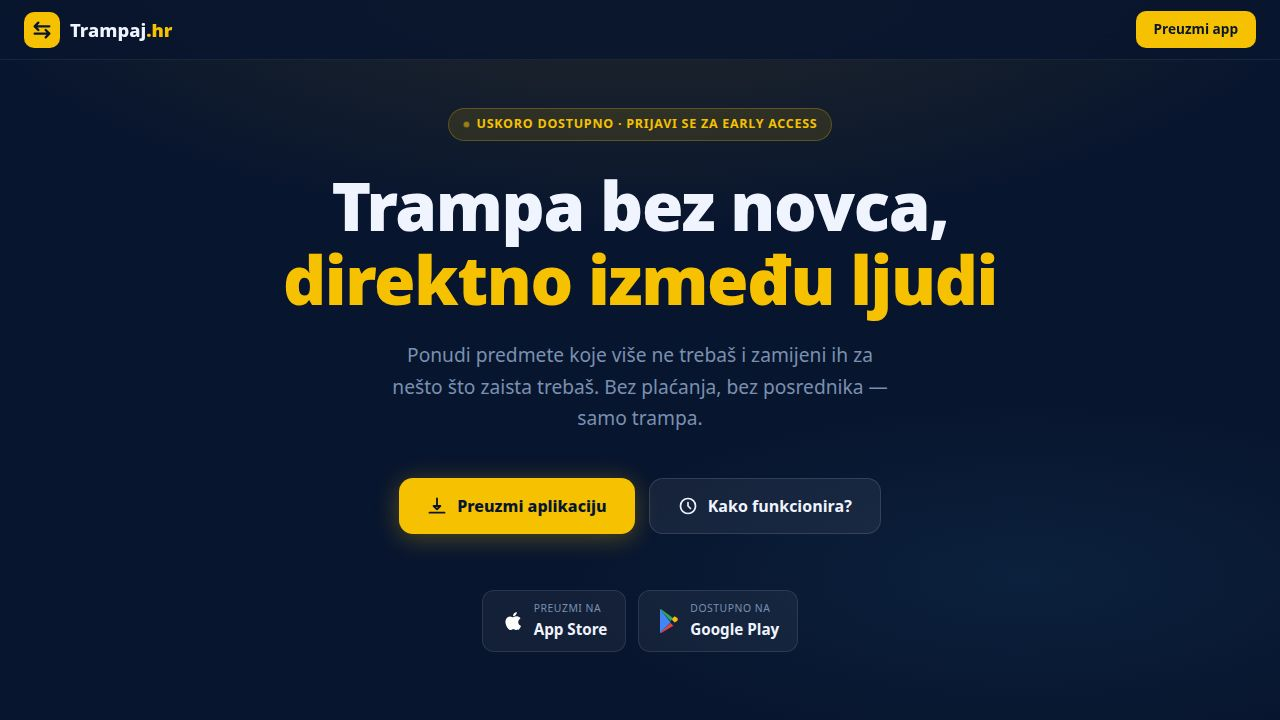
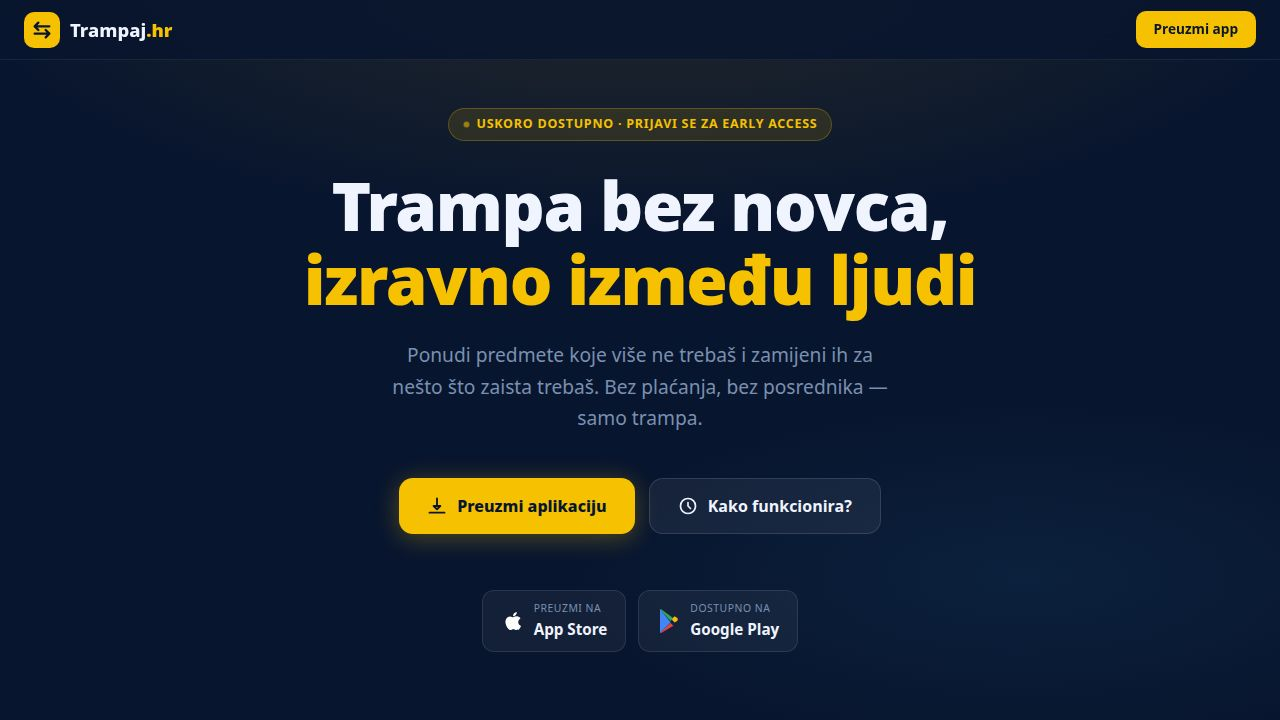
Improve language consistency and correct errors across the application
Update various text elements throughout the mobile and web applications to use correct Croatian phrasing and fix error messages.

Replit-Commit-Author: Agent
Replit-Commit-Session-Id: 77aa64ae-43a9-44ef-bcfc-5a6e57ce5d7a
Replit-Commit-Checkpoint-Type: full_checkpoint
Replit-Commit-Event-Id: 529c4c6e-ff8f-4122-861b-dcb63acb4c01
Replit-Commit-Screenshot-Url: https://storage.googleapis.com/screenshot-production-us-central1/88ef2a6c-7a33-487b-979b-872bea2e7663/77aa64ae-43a9-44ef-bcfc-5a6e57ce5d7a/D52Cpzc
Replit-Helium-Checkpoint-Created: true

Changed region(s): [[0.2188, 0.3361, 0.7812, 0.4583]]

diff --git a/artifacts/mobile/app/chat/[listingId].tsx b/artifacts/mobile/app/chat/[listingId].tsx
@@ -260,7 +260,7 @@ function DeliveryModal({
           <Text style={styles.modalLabel}>DOSTAVA</Text>
           <Text style={styles.modalTitle}>Osobno preuzimanje</Text>
           <Text style={[styles.disclaimerBody, { marginTop: 10 }]}>
-            {"Predmet je velik pa se dogovarate direktno o terminu i načinu preuzimanja.\n\nDogovorite se u chatu gdje i kada."}
+            {"Predmet je velik pa se dogovarate izravno o terminu i načinu preuzimanja.\n\nDogovorite se u chatu gdje i kada."}
           </Text>
           <Pressable
             onPress={() => onDone({ method: "personal", escrowActive: false })}
@@ -423,7 +423,7 @@ function EscrowModal({
         if (data.code === "stripe_not_connected") {
           setErrMsg("Plaćanje karticom uskoro dostupno! Platforma je u fazi testiranja.");
         } else {
-          setErrMsg(data.error ?? "Greška pri otvaranju plaćanja.");
+          setErrMsg(data.error ?? "Pogreška pri otvaranju plaćanja.");
         }
         return;
       }
@@ -437,7 +437,7 @@ function EscrowModal({
         setErrMsg("Plaćanje otkazano.");
       }
     } catch {
-      setErrMsg("Greška. Pokušaj ponovo ili kontaktiraj podršku.");
+      setErrMsg("Pogreška. Pokušaj ponovo ili kontaktiraj podršku.");
     } finally {
       setLoading(false);
     }
@@ -451,9 +451,9 @@ function EscrowModal({
           <Text style={styles.modalLabel}>PLAĆANJE USPJEŠNO</Text>
           <Text style={styles.modalTitle}>Dostava plaćena!</Text>
           <Text style={[styles.disclaimerBody, { marginTop: 10 }]}>
-            {"Nalepnica za dostavu putem "}
+            {"Naljepnica za dostavu putem "}
             <Text style={styles.disclaimerBold}>{paidMethodName}</Text>
-            {" bit će poslana na tvoj e-mail.\n\nUpakuj predmet i predaj ga kuriru ili odnesi na paketomat."}
+            {" bit će poslana na tvoj e-mail.\n\nZapakiraj predmet i predaj ga kuriru ili odnesi na paketomat."}
           </Text>
           <Pressable
             onPress={onDone}
@@ -475,7 +475,7 @@ function EscrowModal({
         <View style={[styles.dealCard, { padding: 28, gap: 0, maxWidth: SW - 40 }]}>
           <Text style={{ fontSize: 36, marginBottom: 8 }}>🤝</Text>
           <Text style={styles.modalLabel}>OSOBNO PREUZIMANJE</Text>
-          <Text style={styles.modalTitle}>Dogovorite se direktno</Text>
+          <Text style={styles.modalTitle}>Dogovorite se izravno</Text>
           <Text style={[styles.disclaimerBody, { marginTop: 12 }]}>
             {"Dogovorite se u chatu o terminu i mjestu preuzimanja.\n\nZa sigurniju trampu možete koristiti opciju sigurnosnog depozita."}
           </Text>
@@ -562,7 +562,7 @@ function EscrowModal({
         )}
 
         <Text style={[styles.disclaimerBody, { marginTop: 10, fontSize: 11 }]}>
-          {"Plaćanje je sigurno putem Stripe platforme. Nalepnica za dostavu stiže na tvoj e-mail. 🔒"}
+          {"Plaćanje je sigurno putem Stripe platforme. Naljepnica za dostavu stiže na tvoj e-mail. 🔒"}
         </Text>
 
         {errMsg && (
@@ -661,7 +661,7 @@ function DepositModal({
         if (data.code === "stripe_not_connected") {
           setErrMsg("Sigurnosni depozit uskoro dostupan! Platforma je u fazi testiranja.");
         } else {
-          setErrMsg(data.error ?? "Greška pri otvaranju plaćanja.");
+          setErrMsg(data.error ?? "Pogreška pri otvaranju plaćanja.");
         }
         return;
       }
@@ -687,7 +687,7 @@ function DepositModal({
         setErrMsg("Plaćanje otkazano.");
       }
     } catch {
-      setErrMsg("Greška. Pokušaj ponovo.");
+      setErrMsg("Pogreška. Pokušaj ponovo.");
     } finally {
       setLoading(false);
     }

diff --git a/artifacts/mobile/app/(tabs)/profile.tsx b/artifacts/mobile/app/(tabs)/profile.tsx
@@ -395,7 +395,7 @@ export default function ProfileScreen() {
       setShowBioPasswordModal(false);
       Haptics.notificationAsync(Haptics.NotificationFeedbackType.Success);
     } catch {
-      Alert.alert("Greška", "Provjeri vezu i pokušaj ponovo.");
+      Alert.alert("Pogreška", "Provjeri vezu i pokušaj ponovo.");
     } finally {
       setBioActivating(false);
     }
@@ -432,7 +432,7 @@ export default function ProfileScreen() {
               Haptics.notificationAsync(Haptics.NotificationFeedbackType.Success);
               router.replace("/(tabs)");
             } catch {
-              Alert.alert("Greška", "Nije uspjelo brisanje. Pokušaj ponovo.");
+              Alert.alert("Pogreška", "Nije uspjelo brisanje. Pokušaj ponovo.");
             }
           },
         },
@@ -546,7 +546,7 @@ export default function ProfileScreen() {
         Alert.alert("Aplikacija je aktualna", "Koristiš najnoviju verziju.");
       }
     } catch {
-      Alert.alert("Greška", "Provjera ažuriranja nije uspjela. Provjeri vezu.");
+      Alert.alert("Pogreška", "Provjera ažuriranja nije uspjela. Provjeri vezu.");
     } finally {
       setUpdating(false);
     }
@@ -707,7 +707,7 @@ export default function ProfileScreen() {
 
   async function handleSaveProfile() {
     if (!user) return;
-    if (!profileForm.username.trim()) { setProfileError("Korisničko ime je obavezno"); return; }
+    if (!profileForm.username.trim()) { setProfileError("Korisničko ime je obvezno"); return; }
     setProfileSaving(true);
     setProfileError("");
     const data: Parameters<typeof updateProfile>[0] = {
@@ -729,7 +729,7 @@ export default function ProfileScreen() {
       Haptics.notificationAsync(Haptics.NotificationFeedbackType.Success);
       setEditingProfile(false);
     } else {
-      setProfileError(result.error ?? "Greška pri snimanju");
+      setProfileError(result.error ?? "Pogreška pri snimanju");
     }
   }
 

diff --git a/artifacts/web/src/App.tsx b/artifacts/web/src/App.tsx
@@ -49,9 +49,9 @@ function TermsPage() {
           ["1. Operator i opis usluge", "Operator platforme:\nDiplomat d.o.o., Dr. F. Tuđmana 10, 34000 Požega | OIB: 77718954672\n\nTrampaj.hr je platforma koja omogućuje razmjenu (trampu) predmeta između fizičkih osoba. Platforma isključivo posreduje u spajanju korisnika — ne sudjeluje u transakcijama, ne preuzima odgovornost za predmete niti jamči uspješnu zamjenu.\n\nKorištenjem platforme potvrđujete da ste punoljetna osoba (18+) s pravnom sposobnošću za sklapanje ugovora."],
           ["2. Registracija i korisnički račun", "• Registracija je besplatna i dobrovoljna\n• Korisnik je odgovoran za točnost unesenih podataka\n• Zabranjeno je kreirati lažne profile ili se predstavljati tuđim identitetom\n• Jedan korisnik smije imati samo jedan aktivan račun\n• Korisnik je dužan čuvati povjerljivost lozinke i odmah prijaviti svaki neovlašteni pristup\n• Platforma zadržava pravo suspendiranja ili brisanja računa koji krši ove Uvjete"],
           ["3. Pravila oglašavanja", "Oglasi moraju biti točni, potpuni i u skladu s ovim pravilima. Zabranjeno je objavljivati:\n\n• Lažne ili obmanjujuće oglase\n• Predmete koji su predmet krađe, falsifikati ili ilegalna roba\n• Oružje, eksplozivi, droge i kontrolirane supstancije\n• Živežne namirnice i lijekovi koji zahtijevaju posebne uvjete pohrane\n• Sadržaj koji vrijeđa dostojanstvo osoba ili potiče mržnju\n• Predmete koji su zakonom zabranjeni za promet\n• Živa bića (životinje)\n\nKorisnik je osobno odgovoran za točnost i zakonitost objavljenih oglasa."],
-          ["4. Zabranjena ponašanja", "Zabranjeno je:\n\n• Kontaktirati korisnike s ciljem prijevare ili izvlačenja novca\n• Manipulirati ocjenama (lažne recenzije, samooklenjivanje)\n• Koristiti automatizirane alate za masovno objavljivanje oglasa (spam)\n• Prikupljati osobne podatke ostalih korisnika bez njihovog pristanka\n• Koristiti platformu za oglašavanje komercijalnih usluga ili reklama\n• Zaobilaziti mjere sigurnosti platforme"],
-          ["5. Zamjena predmeta i odgovornost", "Trampaj.hr posreduje u spajanju korisnika, ali:\n\n• NE garantira kvalitetu, stanje ili autentičnost predmeta\n• NE sudjeluje u fizičkoj razmjeni predmeta\n• NIJE odgovorna za štete nastale uslijed zamjene\n• NE pruža usluge prijevoza niti jamči dostavu\n\nKorisnici su sami odgovorni za dogovaranje uvjeta zamjene, provjeru predmeta i odabir sigurnog načina razmjene."],
-          ["6. Dostava i plaćanje dostave", "Platforma ne naplaćuje proviziju niti posreduje u financijskim transakcijama.\n\nUkoliko korisnici dogovore kurirsku dostavu:\n• Svaki korisnik plaća dostavu paketa koji prima\n• Trošak i organizacija dostave isključivo su dogovor između korisnika\n• Platforma ne snosi odgovornost za izgubljene, oštećene ili zakasnjele pošiljke"],
+          ["4. Zabranjena ponašanja", "Zabranjeno je:\n\n• Kontaktirati korisnike s ciljem prijevare ili izvlačenja novca\n• Manipulirati ocjenama (lažne recenzije, samoocjenjivanje)\n• Koristiti automatizirane alate za masovno objavljivanje oglasa (spam)\n• Prikupljati osobne podatke ostalih korisnika bez njihovog pristanka\n• Koristiti platformu za oglašavanje komercijalnih usluga ili reklama\n• Zaobilaziti mjere sigurnosti platforme"],
+          ["5. Zamjena predmeta i odgovornost", "Trampaj.hr posreduje u spajanju korisnika, ali:\n\n• NE jamči kvalitetu, stanje ili autentičnost predmeta\n• NE sudjeluje u fizičkoj razmjeni predmeta\n• NIJE odgovorna za štete nastale uslijed zamjene\n• NE pruža usluge prijevoza niti jamči dostavu\n\nKorisnici su sami odgovorni za dogovaranje uvjeta zamjene, provjeru predmeta i odabir sigurnog načina razmjene."],
+          ["6. Dostava i plaćanje dostave", "Platforma ne naplaćuje proviziju niti posreduje u financijskim transakcijama.\n\nAko korisnici dogovore kurirsku dostavu:\n• Svaki korisnik plaća dostavu paketa koji prima\n• Trošak i organizacija dostave isključivo su dogovor između korisnika\n• Platforma ne snosi odgovornost za izgubljene, oštećene ili zakasnjele pošiljke"],
           ["7. DSA — Digitalni tržišni akti (Uredba EU 2022/2065)", "Trampaj.hr posluje sukladno Zakonu o provedbi Uredbe EU o digitalnim uslugama (NN, 28.3.2025.):\n\n• Korisnici mogu prijaviti ilegalne ili sumnjive oglase putem gumba \"Prijavi oglas\"\n• Prijave se obrađuju unutar 72 sata\n• Platforma poduzima mjere uklanjanja nezakonitog sadržaja\n• Kontakt za tijela javne vlasti: [email redacted]"],
           ["8. Status korisnika — privatne osobe", "Sukladno čl. 68. Zakona o zaštiti potrošača (NN 19/22, 59/23), Trampaj.hr je internetsko tržište koje isključivo spaja privatne osobe.\n\nSvi korisnici platforme su privatne osobe — nisu trgovci u smislu potrošačkog zakonodavstva EU-a. Stoga:\n\n• Zakonska jamstva i prava potrošača propisana EU direktivama ne primjenjuju se na zamjene ostvarene putem ove platforme\n• Svaki oglas na platformi automatski je označen kao ponuda privatne osobe\n\nAko korisnik u stvarnosti posluje kao trgovac, dužan je to naznačiti i preuzima punu zakonsku odgovornost prema potrošačima."],
           ["9. Intelektualno vlasništvo", "Korisnik zadržava autorska prava na fotografije i opise koje objavljuje. Objavljivanjem sadržaja dajete Trampaj.hr neekskluzivnu, besplatnu licencu za prikaz tog sadržaja unutar platforme.\n\nLogo, dizajn i naziv \"Trampaj.hr\" vlasništvo su operatora platforme i ne smiju se koristiti bez pismenog odobrenja."],
@@ -291,7 +291,7 @@ function LandingPage() {
           <span className="badge-dot"></span>
           Uskoro dostupno · Prijavi se za early access
         </div>
-        <h1>Trampa bez novca,<br/><em>direktno između ljudi</em></h1>
+        <h1>Trampa bez novca,<br/><em>izravno između ljudi</em></h1>
         <p className="subtitle">
           Ponudi predmete koje više ne trebaš i zamijeni ih za nešto što zaista trebaš.
           Bez plaćanja, bez posrednika — samo trampa.
@@ -360,7 +360,7 @@ function LandingPage() {
           <div className="features-grid">
             {[
               {icon:"🔒", title:"Sigurna trampa", desc:"Sustav drži predmete u sigurnoj ruci dok obje strane ne potvrde razmjenu."},
-              {icon:"📦", title:"Dostava na klik", desc:"Plati kurirsku dostavu direktno u appu. Nalepnica stiže na mail."},
+              {icon:"📦", title:"Dostava na klik", desc:"Plati kurirsku dostavu izravno u appu. Naljepnica stiže na e-mail."},
               {icon:"⚡", title:"Instant chat", desc:"Razgovaraj, pregovaraj i dogovori trampu unutar aplikacije."},
               {icon:"🇭🇷", title:"Made in Croatia", desc:"Servis namijenjen hrvatskim korisnicima, s podrškom na hrvatskom jeziku."},
               {icon:"0 kn", title:"Besplatno", desc:"Objava oglasa i trampa su potpuno besplatni. Bez skrivenih naknada."},

diff --git a/artifacts/mobile/app/onboarding.tsx b/artifacts/mobile/app/onboarding.tsx
@@ -67,8 +67,8 @@ export default function OnboardingScreen() {
   function validateStep2(): boolean {
     const e: Record<string, string> = {};
     if (username.trim().length < 2) e.username = "Najmanje 2 znaka";
-    if (email.trim() && !/^[^\s@]+@[^\s@]+\.[^\s@]+$/.test(email.trim())) e.email = "Nevažeći email";
-    if (!email.trim()) e.email = "Email je obavezan";
+    if (email.trim() && !/^[^\s@]+@[^\s@]+\.[^\s@]+$/.test(email.trim())) e.email = "Nevažeća e-mail adresa";
+    if (!email.trim()) e.email = "E-mail je obvezan";
     if (password.length < 6) e.password = "Najmanje 6 znakova";
     else if (!/[A-Z]/.test(password)) e.password = "Mora sadržavati veliko slovo";
     else if (!/[0-9]/.test(password)) e.password = "Mora sadržavati broj";
@@ -107,7 +107,7 @@ export default function OnboardingScreen() {
         }
       }
     } catch {
-      Alert.alert("Greška", "Nije moguće dohvatiti lokaciju.");
+      Alert.alert("Pogreška", "Nije moguće dohvatiti lokaciju.");
     } finally {
       setGpsLoading(false);
     }
@@ -179,7 +179,7 @@ export default function OnboardingScreen() {
     setLoading(false);
 
     if (!result.ok) {
-      setErrors({ submit: result.error ?? "Greška pri registraciji" });
+      setErrors({ submit: result.error ?? "Pogreška pri registraciji" });
       return;
     }
 

diff --git a/artifacts/mobile/app/terms.tsx b/artifacts/mobile/app/terms.tsx
@@ -80,19 +80,19 @@ export default function TermsScreen() {
 
         <Section title="4. Zabranjena ponašanja" colors={colors}>
           <Body colors={colors}>
-            {"Zabranjeno je:\n\n• Kontaktirati korisnike s ciljem prijevare ili izvlačenja novca\n• Manipulirati ocjenama (lažne recenzije, samooklenjivanje)\n• Koristiti automatizirane alate za masovno objavljivanje oglasa (spam)\n• Prikupljati osobne podatke ostalih korisnika bez njihovog pristanka\n• Koristiti platformu za oglašavanje komercijalnih usluga ili reklama\n• Zaobilaziti mjere sigurnosti platforme"}
+            {"Zabranjeno je:\n\n• Kontaktirati korisnike s ciljem prijevare ili izvlačenja novca\n• Manipulirati ocjenama (lažne recenzije, samoocjenjivanje)\n• Koristiti automatizirane alate za masovno objavljivanje oglasa (spam)\n• Prikupljati osobne podatke ostalih korisnika bez njihovog pristanka\n• Koristiti platformu za oglašavanje komercijalnih usluga ili reklama\n• Zaobilaziti mjere sigurnosti platforme"}
           </Body>
         </Section>
 
         <Section title="5. Zamjena predmeta i odgovornost" colors={colors}>
           <Body colors={colors}>
-            {"Trampaj.hr posreduje u spajanju korisnika, ali:\n\n• NE garantira kvalitetu, stanje ili autentičnost predmeta\n• NE sudjeluje u fizičkoj razmjeni predmeta\n• NIJE odgovorna za štete nastale uslijed zamjene\n• NE pruža usluge prijevoza niti jamči dostavu\n\nKorisnici su sami odgovorni za dogovaranje uvjeta zamjene, provjeru predmeta i odabir sigurnog načina razmjene. Preporučujemo osobnu predaju ili korištenje provjerenih kurirskih službi."}
+            {"Trampaj.hr posreduje u spajanju korisnika, ali:\n\n• NE jamči kvalitetu, stanje ili autentičnost predmeta\n• NE sudjeluje u fizičkoj razmjeni predmeta\n• NIJE odgovorna za štete nastale uslijed zamjene\n• NE pruža usluge prijevoza niti jamči dostavu\n\nKorisnici su sami odgovorni za dogovaranje uvjeta zamjene, provjeru predmeta i odabir sigurnog načina razmjene. Preporučujemo osobnu predaju ili korištenje provjerenih kurirskih službi."}
           </Body>
         </Section>
 
         <Section title="6. Dostava i plaćanje dostave" colors={colors}>
           <Body colors={colors}>
-            {"Platforma ne naplaćuje proviziju niti posreduje u financijskim transakcijama.\n\nUkoliko korisnici dogovore kurirsku dostavu:\n• Svaki korisnik plaća dostavu paketa koji prima\n• Trošak i organizacija dostave isključivo su dogovor između korisnika\n• Platforma ne snosi odgovornost za izgubljene, oštećene ili zakasnjele pošiljke\n\nZa predmete koji se ne mogu poslati kurirskom službom, korisnici se sami dogovaraju o osobnom preuzimanju."}
+            {"Platforma ne naplaćuje proviziju niti posreduje u financijskim transakcijama.\n\nAko korisnici dogovore kurirsku dostavu:\n• Svaki korisnik plaća dostavu paketa koji prima\n• Trošak i organizacija dostave isključivo su dogovor između korisnika\n• Platforma ne snosi odgovornost za izgubljene, oštećene ili zakasnjele pošiljke\n\nZa predmete koji se ne mogu poslati kurirskom službom, korisnici se sami dogovaraju o osobnom preuzimanju."}
           </Body>
         </Section>
 

diff --git a/artifacts/mobile/app/verify-email.tsx b/artifacts/mobile/app/verify-email.tsx
@@ -100,7 +100,7 @@ export default function VerifyEmailScreen() {
           setTimeout(() => router.replace("/(tabs)"), 1400);
         } else {
           setStatus("error");
-          setMessage(result.error ?? "Greška pri prijavi.");
+          setMessage(result.error ?? "Pogreška pri prijavi.");
         }
       });
       return;
@@ -139,7 +139,7 @@ export default function VerifyEmailScreen() {
       })
       .catch(() => {
         setStatus("error");
-        setMessage("Greška pri verifikaciji. Pokušaj ponovo.");
+        setMessage("Pogreška pri verifikaciji. Pokušaj ponovo.");
       });
   }, [token, jwt]); // eslint-disable-line react-hooks/exhaustive-deps
 
@@ -189,7 +189,7 @@ export default function VerifyEmailScreen() {
             <View style={[styles.iconCircle, { backgroundColor: "#3A1A1A" }]}>
               <Feather name="x-circle" size={48} color="#F87171" />
             </View>
-            <Text style={[styles.title, { color: colors.foreground }]}>Greška</Text>
+            <Text style={[styles.title, { color: colors.foreground }]}>Pogreška</Text>
             <Text style={[styles.subtitle, { color: colors.mutedForeground }]}>{message}</Text>
             <Pressable
               onPress={() => router.replace("/login")}

diff --git a/artifacts/mobile/app/(tabs)/post.tsx b/artifacts/mobile/app/(tabs)/post.tsx
@@ -957,7 +957,7 @@ export default function PostScreen() {
                   {selected && opt.key === "large" && (
                     <View style={[styles.pkgSubForm, { borderColor: colors.border }]}>
                       <Text style={[styles.pkgSubHint, { color: colors.mutedForeground }]}>
-                        🤝 Dogovorite se direktno u chatu o terminu i načinu preuzimanja. Kurirska dostava nije opcija za ovako velike predmete.
+                        🤝 Dogovorite se izravno u chatu o terminu i načinu preuzimanja. Kurirska dostava nije opcija za ovako velike predmete.
                       </Text>
                     </View>
                   )}

diff --git a/artifacts/mobile/app/intro.tsx b/artifacts/mobile/app/intro.tsx
@@ -35,7 +35,7 @@ const SLIDES = [
   {
     emoji: "📦",
     title: "Dostava na klik",
-    body: "Plati kurirsku dostavu direktno u appu. Nalepnica stiže na mail — upakuj i predaj!",
+    body: "Plati kurirsku dostavu izravno u appu. Naljepnica stiže na e-mail — zapakiraj i predaj!",
     accent: "#22C55E",
   },
 ];